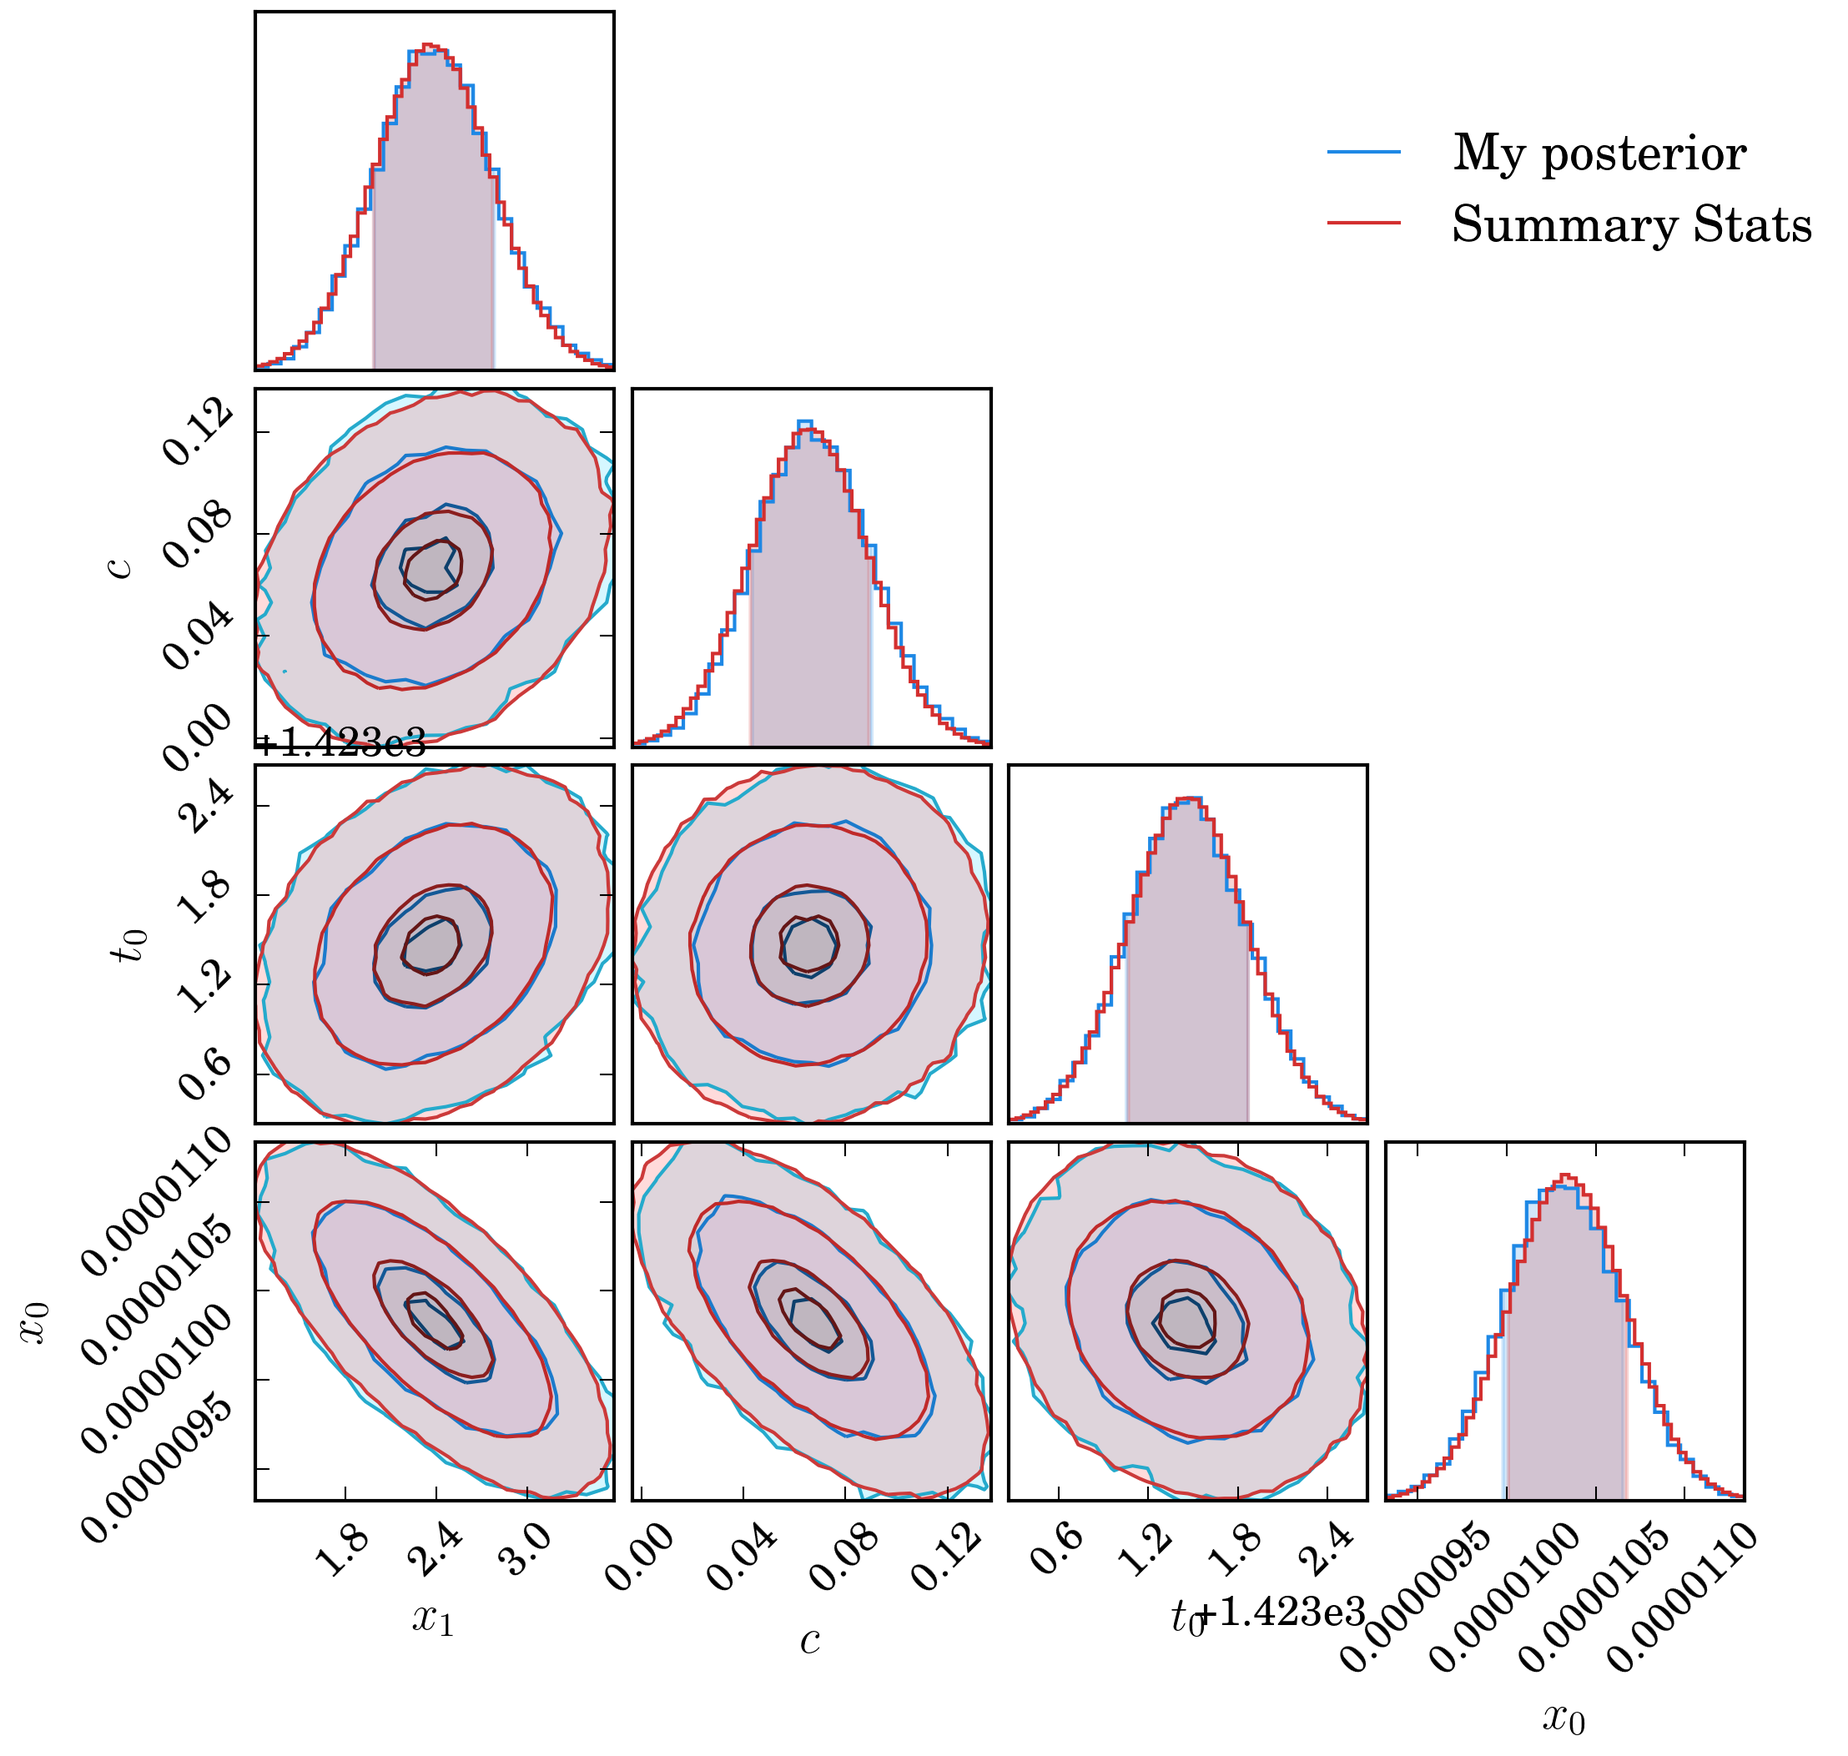
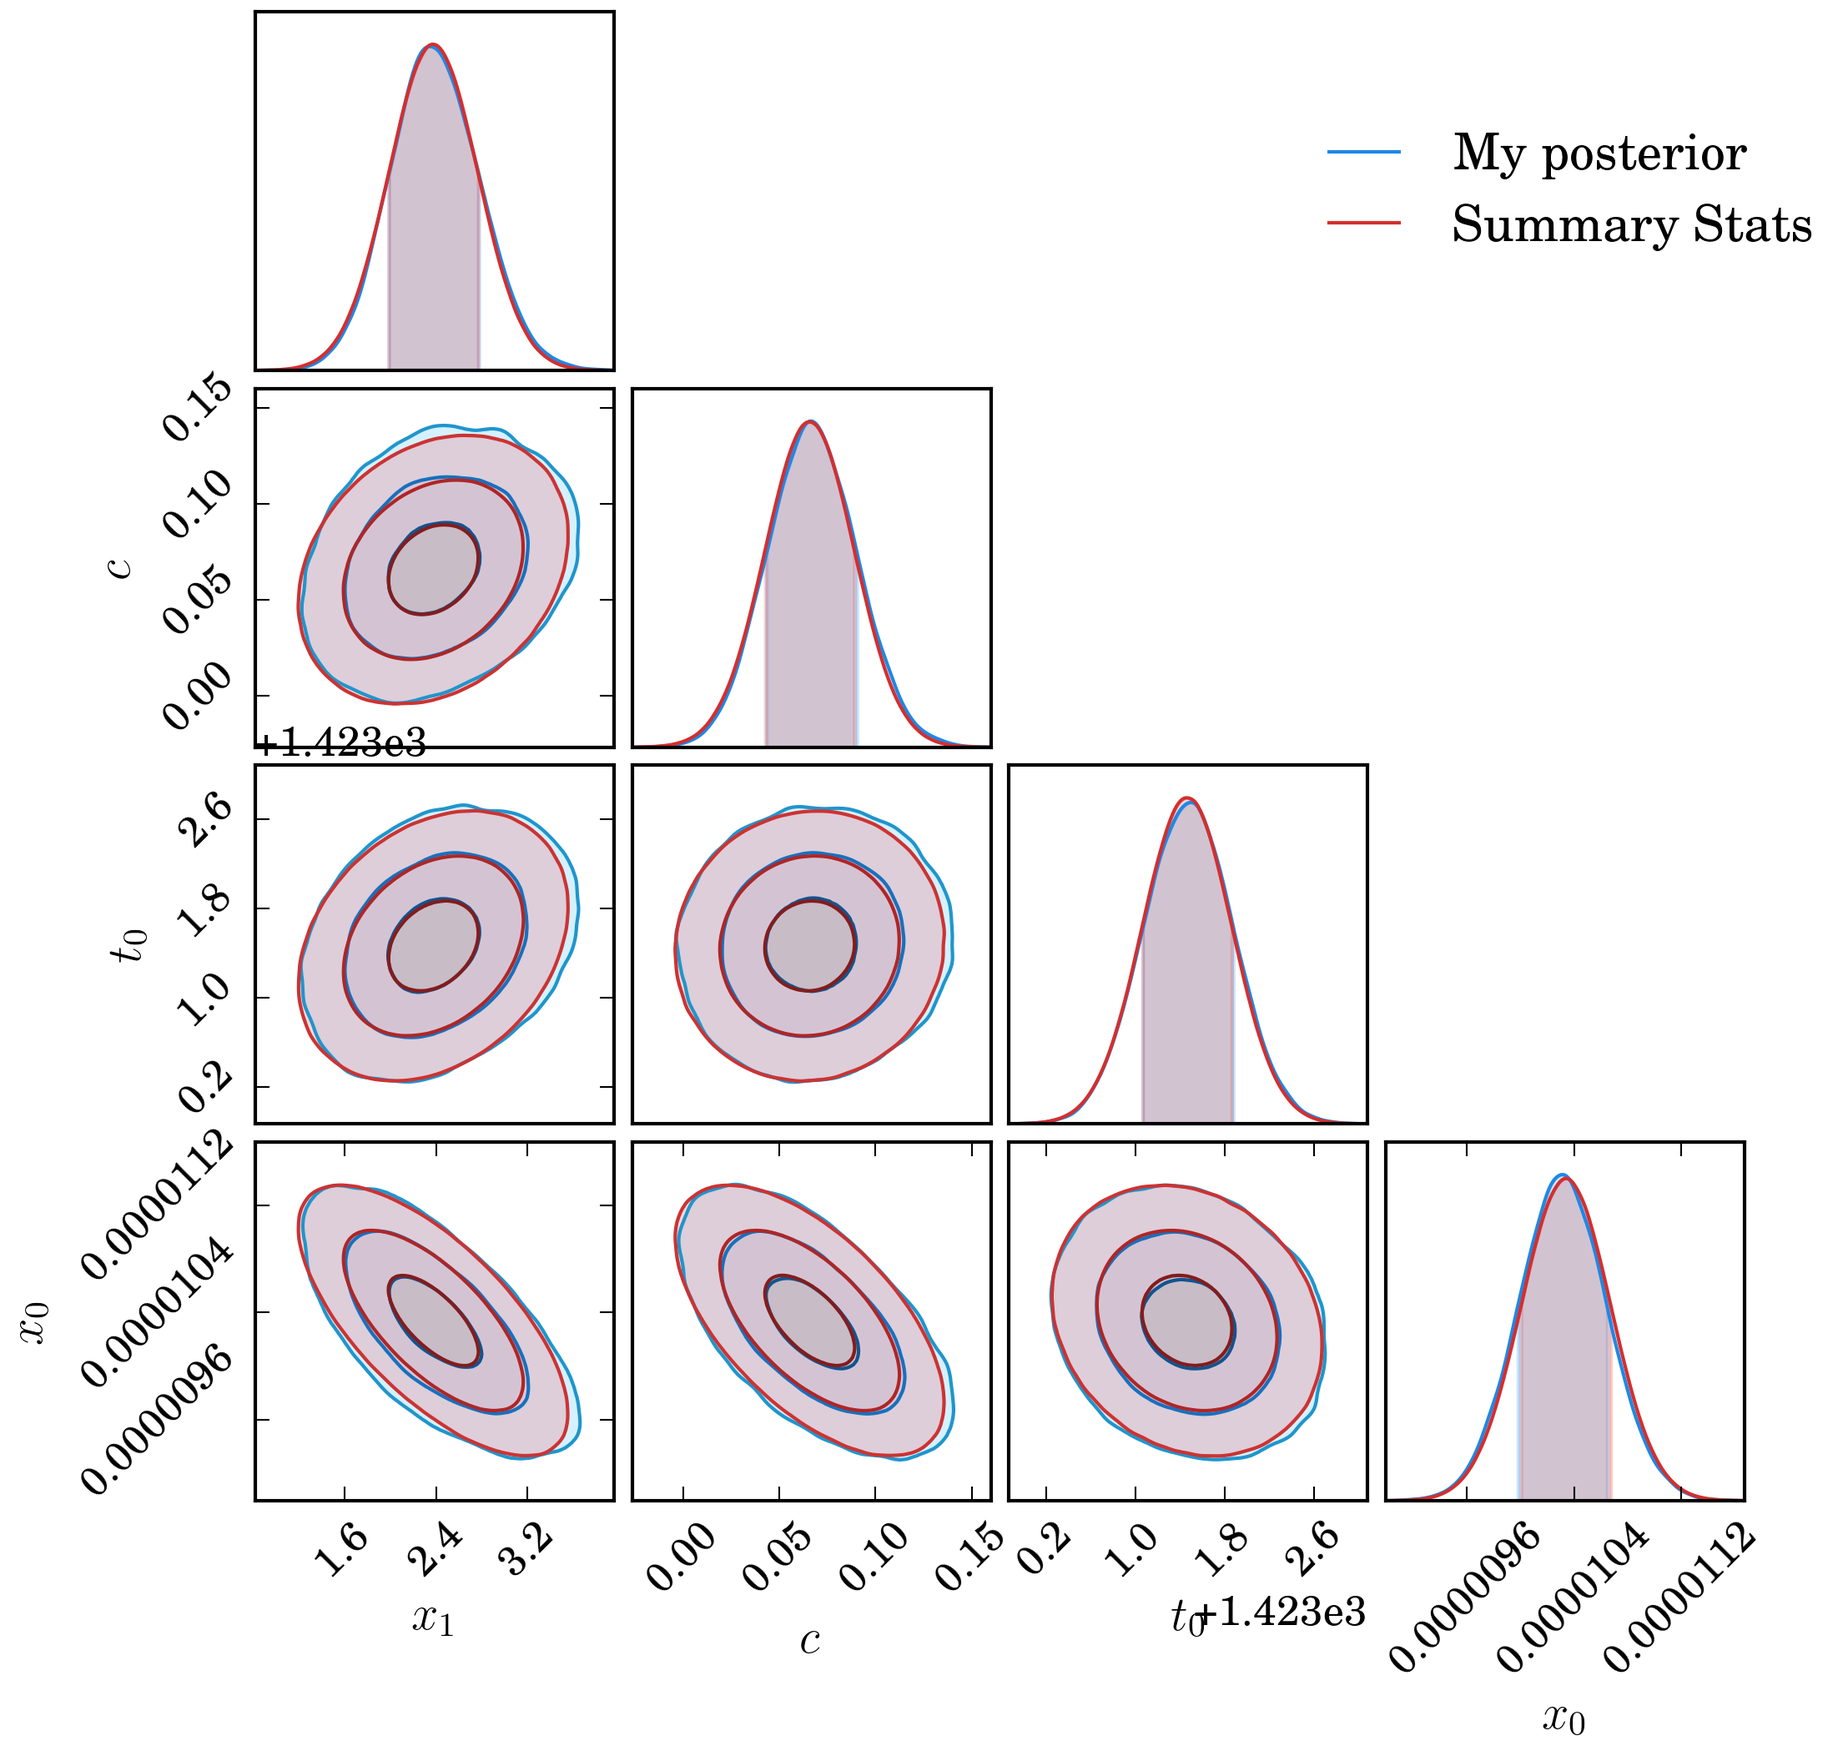
Correct phillips

Changed region(s): [[0.0312, 0.0309, 0.7476, 0.9264], [0.7165, 0.6485, 0.9657, 0.9572]]

diff --git a/dessn/investigations/gaussianity/des_sky.py b/dessn/investigations/gaussianity/des_sky.py
@@ -16,19 +16,20 @@ from astropy.cosmology import WMAP9
 
 
 def realise_light_curve(temp_dir, zeros, seed, scatter=0.3, cosmology=None, mabs=-19.3):
-    simulation = cosmology is None
+    simulation = cosmology is not None
     if cosmology is None:
         cosmology = WMAP9
     np.random.seed(seed)
     t0 = 1000
     num_obs = 20
     if simulation:
-        if np.random.random() < 0.05:
-            z = np.random.uniform(0.05, 0.2)
+        if np.random.random() < 0.1:
+            z = np.random.uniform(0.03, 0.2)
         else:
             zs = list(sncosmo.zdist(0.05, 1.2, area=30, time=10000))
             z_ind = np.random.randint(0, len(zs))
             z = zs[z_ind]
+        print("Simulation: z=%0.6f" % z)
     else:
         z = np.random.uniform(0.1, 0.9)
     deltat = -35
@@ -65,15 +66,18 @@ def realise_light_curve(temp_dir, zeros, seed, scatter=0.3, cosmology=None, mabs
 
     model = sncosmo.Model(source='salt2-extended')
     model.set(z=z)
-    mabs = np.random.normal(mabs, scatter)
-    model.set_source_peakabsmag(mabs, 'bessellb', 'ab', cosmo=cosmology)
-    x0 = model.get('x0')
+
     if not simulation:
         x1 = 0
         c = 0
     else:
-        x1 = np.random.normal(0, 1)
+        x1 = np.random.normal(0, 0.5)
         c = np.random.normal(0, 0.1)
+    alpha = 0.14
+    beta = 3.15
+    mabs = np.random.normal(mabs, scatter) - alpha * x1 + beta * c
+    model.set_source_peakabsmag(mabs, 'bessellb', 'ab', cosmo=cosmology)
+    x0 = model.get('x0')
     p = {'z': z, 't0': t0, 'x0': x0, 'x1': x1, 'c': c}
 
     lc = sncosmo.realize_lcs(obs, model, [p])[0]
@@ -92,8 +96,8 @@ def get_gaussian_fit(z, t0, x0, x1, c, lc, seed, temp_dir, interped, type="iminu
         res, fitted_model = sncosmo.fit_lc(lc, model, ['t0', 'x0', 'x1', 'c'],
                                            guess_amplitude=False, guess_t0=False)
         chain = np.random.multivariate_normal(res.parameters[1:], res.covariance, size=int(1e5))
-        fig = sncosmo.plot_lc(lc, model=[fitted_model, correct_model], errors=res.errors)
-        fig.savefig(temp_dir + os.sep + "lc_%d.png" % seed, bbox_inches="tight", dpi=300)
+        # fig = sncosmo.plot_lc(lc, model=[fitted_model, correct_model], errors=res.errors)
+        # fig.savefig(temp_dir + os.sep + "lc_%d.png" % seed, bbox_inches="tight", dpi=300)
     elif type == "mcmc":
         res, fitted_model = sncosmo.mcmc_lc(lc, model, ['t0', 'x0', 'x1', 'c'], nburn=300, nwalkers=10,
                                             nsamples=1300, guess_amplitude=False, guess_t0=False)
@@ -186,7 +190,11 @@ def get_result(temp_dir, zps, seed, scatter, special=False, full=True):
             return res
     else:
         interp = generate_and_return()
-        z, t0, x0, x1, c, ston, lc = realise_light_curve(temp_dir, zps, seed, scatter=scatter)
+        if full:
+            cosmology = None
+        else:
+            cosmology = WMAP9
+        z, t0, x0, x1, c, ston, lc = realise_light_curve(temp_dir, zps, seed, scatter=scatter, cosmology=cosmology)
 
         if ston < 4:
             print("Failed ", z)
@@ -196,13 +204,13 @@ def get_result(temp_dir, zps, seed, scatter, special=False, full=True):
         try:
             chainf, parametersf, means, cov = get_gaussian_fit(z, t0, x0, x1, c, lc, seed,
                                                                temp_dir, interp, type="iminuit")
-
             mcmc_file = temp_dir + "/mcmc%d.npy" % seed
             if os.path.exists(mcmc_file):
                 chainf2 = np.load(mcmc_file)
             else:
                 chainf2, _, _, _ = get_gaussian_fit(z, t0, x0, x1, c, lc, seed, temp_dir, interp, type="mcmc")
                 np.save(mcmc_file, chainf2)
+
             if full:
                 nestle_file = temp_dir + "/nestle%d.npy" % seed
                 if os.path.exists(nestle_file):
@@ -322,50 +330,51 @@ def run_analysis(foldername, zeropoints, scatter, savefigure=False, n=400):
         # os.remove(temp_dir + os.sep + "final%d.npy" % index)
         print("Getting special result for index %d" % index)
         get_result(temp_dir, zeropoints, index)
+    else:
+        print("Creating plots")
+        import matplotlib.pyplot as plt
+        fig, axes = plt.subplots(ncols=2, nrows=2, figsize=(8, 7))
 
-    print("Creating plots")
-    import matplotlib.pyplot as plt
-    fig, axes = plt.subplots(ncols=2, nrows=2, figsize=(8, 7))
+        axes = axes.T.flatten()
+        datas = [[diff_mu_ps, diff_mu_fs, diff_mu_ms, diff_mu_ns],
+                 [diff_mu_ps / stdd, diff_mu_fs / stdd, diff_mu_ms / stdd, diff_mu_ns / stdd],
+                 [diff_std_ps2, diff_std_fs2, diff_std_ms2, diff_std_ns2]]
+        labels = [["Posterior", "minuit", "emcee", "nestle"],
+                  ["Posterior", "minuit", "emcee", "nestle"], ["P/PSS", "P/FSS", "P/MSS", "P/NSS"]]
 
-    axes = axes.T.flatten()
-    datas = [[diff_mu_ps, diff_mu_fs, diff_mu_ms, diff_mu_ns],
-             [diff_mu_ps / stdd, diff_mu_fs / stdd, diff_mu_ms / stdd, diff_mu_ns / stdd],
-             [diff_std_ps2, diff_std_fs2, diff_std_ms2, diff_std_ns2]]
-    labels = [["Posterior", "minuit", "emcee", "nestle"],
-              ["Posterior", "minuit", "emcee", "nestle"], ["P/PSS", "P/FSS", "P/MSS", "P/NSS"]]
+        axes[0].set_ylabel(r"$\Delta (\mu + M)$", fontsize=14)
+        axes[1].set_ylabel(r"$\Delta (\mu + M) / \sigma_{\mu + M}$", fontsize=14)
+        axes[2].set_ylabel(r"Percent Ratio $\Delta \sigma_{\mu + M}$", fontsize=14)
+        zs = np.linspace(z.min(), z.max(), 11)
 
-    axes[0].set_ylabel(r"$\Delta (\mu + M)$", fontsize=14)
-    axes[1].set_ylabel(r"$\Delta (\mu + M) / \sigma_{\mu + M}$", fontsize=14)
-    axes[2].set_ylabel(r"Percent Ratio $\Delta \sigma_{\mu + M}$", fontsize=14)
-    zs = np.linspace(z.min(), z.max(), 11)
+        n, _ = np.histogram(z, bins=zs)
+        for ax, data, label in zip(axes, datas, labels):
+            ax.set_xlabel("$z$", fontsize=14)
+            for i, (d, l) in enumerate(zip(data, label)):
+                mean, edges = np.histogram(z, bins=zs, weights=d)
+                std, _ = np.histogram(z, bins=zs, weights=d * d)
+                mean /= n
+                std = np.sqrt(std / n - mean * mean)
+                ec = 0.5 * (edges[:-1] + edges[1:])
+                ax.errorbar(ec + (0.01 * (i - 1)), mean, fmt='o', yerr=std, label=l)
 
-    n, _ = np.histogram(z, bins=zs)
-    for ax, data, label in zip(axes, datas, labels):
-        ax.set_xlabel("$z$", fontsize=14)
-        for i, (d, l) in enumerate(zip(data, label)):
-            mean, edges = np.histogram(z, bins=zs, weights=d)
-            std, _ = np.histogram(z, bins=zs, weights=d * d)
-            mean /= n
-            std = np.sqrt(std / n - mean * mean)
-            ec = 0.5 * (edges[:-1] + edges[1:])
-            ax.errorbar(ec + (0.01 * (i - 1)), mean, fmt='o', yerr=std, label=l)
+        axes[0].legend(loc=2)
+        print("Creating skewness plot")
 
-    axes[0].legend(loc=2)
-    print("Creating skewness plot")
-
-    skewhist, edges = np.histogram(z, bins=zs, weights=skews)
-    std, _ = np.histogram(z, bins=zs, weights=skews * skews)
-    skewhist /= n
-    std = np.sqrt(std / n - skewhist * skewhist)
-    ec = 0.5 * (edges[:-1] + edges[1:])
-    axes[-1].errorbar(ec, skewhist, fmt='o', yerr=std, label="Skewness")
-    axes[-1].legend(loc=3)
-    axes[-1].set_xlabel("$z$")
-    plt.tight_layout()
-    fig.savefig(os.path.dirname(__file__) + "/output/bias_%s.png" % foldername, dpi=300, bbox_inches="tight",
-                transparent=True)
-    # plt.show()
+        skewhist, edges = np.histogram(z, bins=zs, weights=skews)
+        std, _ = np.histogram(z, bins=zs, weights=skews * skews)
+        skewhist /= n
+        std = np.sqrt(std / n - skewhist * skewhist)
+        ec = 0.5 * (edges[:-1] + edges[1:])
+        axes[-1].errorbar(ec, skewhist, fmt='o', yerr=std, label="Skewness")
+        axes[-1].legend(loc=3)
+        axes[-1].set_xlabel("$z$")
+        plt.tight_layout()
+        fig.savefig(os.path.dirname(__file__) + "/output/bias_%s.png" % foldername, dpi=300, bbox_inches="tight",
+                    transparent=True)
+        # plt.show()
 
 
 if __name__ == "__main__":
+    run_analysis("dessky", [32.46, 32.28, 32.55, 33.12], 0.3, savefigure=False)
     run_analysis("dessky", [32.46, 32.28, 32.55, 33.12], 0.3, savefigure=True)

diff --git a/dessn/investigations/gaussianity/simple_cosmology_test.py b/dessn/investigations/gaussianity/simple_cosmology_test.py
@@ -26,17 +26,18 @@ def get_zp_and_name(shallow):
         return [34.24, 34.85, 34.94, 35.42], "deep"
 
 
-def get_supernova_data(n=800, ston_thresh=5, shallow=True):
+def get_supernova_data(n=600, ston_thresh=5, shallow=True):
     zp, name = get_zp_and_name(shallow)
     temp_dir = os.path.dirname(__file__) + "/output/supernova_data_%s" % name
     if not os.path.exists(temp_dir):
         os.makedirs(temp_dir)
     ress = Parallel(n_jobs=4, max_nbytes="20M", batch_size=5)(delayed(get_result)(
-        temp_dir, zp, i, 0.05, False, False) for i in range(n))
-    print(ress)
+        temp_dir, zp, i, 0.1, False, False) for i in range(n))
     res = np.array([r for r in ress if r is not None])
     ston = res[:, 6]
     res = res[ston > ston_thresh, :]
+    z = res[:, 1]
+    # res = res[z < 0.7, :]
     # [seed, z, t0, x0, x1, c, ston] + mus + stds)
     #            zs, mu_mcmc, mu_minuit, std_mcmc, std_minuit
     return res[:, 1], res[:, 7], res[:, 8], res[:, 9], res[:, 10]
@@ -46,7 +47,7 @@ def get_bias(omega_m, w0, mabs, n=800, ston_thresh=5, shallow=True):
     zp, name = get_zp_and_name(shallow)
     cosmology = FlatwCDM(70, omega_m, w0=w0)
     ress = Parallel(n_jobs=4, max_nbytes="20M", batch_size=100)(delayed(realise_light_curve)(
-        None, zp, i, 0.05, cosmology, mabs) for i in range(n))
+        None, zp, i, 0.1, cosmology, mabs) for i in range(n))
     res = np.array([r for r in ress if r is not None])
     ston = res[:, 5]
     mask = (ston > ston_thresh).sum()
@@ -54,8 +55,8 @@ def get_bias(omega_m, w0, mabs, n=800, ston_thresh=5, shallow=True):
 
 
 def get_bias_matrix(filename, shallow=True):
-    omega_ms = np.linspace(0.2, 0.4, 7)
-    ws = np.linspace(-1.5, -0.5, 7)
+    omega_ms = np.linspace(0.1, 0.6, 7)
+    ws = np.linspace(-2, -0.5, 7)
     mabss = np.linspace(-20, -19, 7)
 
     if os.path.exists(filename):
@@ -85,13 +86,13 @@ def plot_cosmology(zs, mu_mcmc, mu_minuit, std_mcmc, std_minuit):
     # ax.axhline(0, color='k', ls="--")
     zsort = sorted(zs)
     distmod = WMAP9.distmod(zsort).value - 19.3
-    distmod2 = FlatwCDM(70, 0.2, -1.0).distmod(zsort).value - 19.3
+    distmod2 = FlatwCDM(70, 0.1, -0.8).distmod(zsort).value - 19.3
+    distmod3 = FlatwCDM(70, 0.25, -2).distmod(zsort).value - 19.5
+    ax.errorbar(zs, mu_minuit, yerr=np.sqrt(std_minuit*std_minuit + 0.1*0.1), ms=4, fmt='o', label=r"minuit", color="r", alpha=0.1)
+    # ax.errorbar(zs, mu_mcmc, yerr=np.sqrt(std_mcmc*std_mcmc + 0.05*0.05), fmt='o', ms=4, label=r"mcmc", color="b", alpha=0.1)
     ax.plot(zsort, distmod, 'k')
-    # ax.plot(zsort, distmod2, 'g--')
-    ax.errorbar(zs, mu_minuit, yerr=np.sqrt(std_minuit + 0.05*0.05), ms=4, fmt='o',
-                label=r"minuit", color="r", alpha=0.5)
-    ax.errorbar(zs, mu_mcmc, yerr=np.sqrt(std_mcmc + 0.05*0.05), fmt='o', ms=4, label=r"mcmc",
-                color="b", alpha=0.5)
+    ax.plot(zsort, distmod2, 'g--')
+    ax.plot(zsort, distmod3, 'r:')
     ax.set_xlabel("$z$")
     ax.set_ylabel(r"$\mu(\mathcal{C}) - \mu_{{\rm obs}}$")
     ax.legend(loc=2)
@@ -111,10 +112,10 @@ if __name__ == "__main__":
     fitter_mcmc = SimpleCosmologyFitter("mcmc", zs, mu_mcmc, std_mcmc, interp)
     fitter_minuit = SimpleCosmologyFitter("minuit", zs, mu_minuit, std_minuit, interp)
 
-    sampler = EnsembleSampler(temp_dir=temp_dir2, save_interval=60, num_steps=4000, num_burn=2000)
+    sampler = EnsembleSampler(temp_dir=temp_dir2, save_interval=60, num_steps=5000, num_burn=1000)
     c = fitter_mcmc.fit(sampler=sampler)
-    # c = fitter_minuit.fit(sampler=sampler, chain_consumer=c)
-    # c.names = ["emcee", "minuit"]
-    c.plot_walks(filename="output/walks.png")
+    c = fitter_minuit.fit(sampler=sampler, chain_consumer=c)
+    c.names = ["emcee", "minuit"]
+    #c.plot_walks(filename="output/walks.png")
     c.plot(filename="output/comparison_shallow.png", parameters=2, figsize=(5.5, 5.5))
     print(c.get_latex_table())

diff --git a/dessn/investigations/gaussianity/simple.py b/dessn/investigations/gaussianity/simple.py
@@ -3,7 +3,7 @@ from dessn.investigations.gaussianity.apparent_mags import generate_and_return
 import sncosmo
 import numpy as np
 from astropy.table import Table
-from dessn.chain.chain import ChainConsumer
+from chainconsumer import ChainConsumer
 from dessn.framework.samplers.ensemble import EnsembleSampler
 import os
 
@@ -46,9 +46,9 @@ if __name__ == "__main__":
     mcmc_chain = temp_dir + os.sep + "mcmc_simple.npy"
     c = ChainConsumer()
     my_model = PerfectRedshift(lcs, [z], t0, name="My posterior")
-    sampler = EnsembleSampler(temp_dir=temp_dir, num_steps=10000)
+    sampler = EnsembleSampler(temp_dir=temp_dir, num_steps=20000)
     my_model.fit(sampler, chain_consumer=c)
-    c.add_chain(np.random.multivariate_normal(res.parameters[1:], res.covariance, size=int(1e6)),
+    c.add_chain(np.random.multivariate_normal(res.parameters[1:], res.covariance, size=int(1e7)),
                 name="Summary Stats", parameters=["$t_0$", "$x_0$", "$x_1$", "$c$"])
 
     if False:
@@ -61,7 +61,7 @@ if __name__ == "__main__":
             mcchain = np.load(mcmc_chain)
         c.add_chain(mcchain, name="sncosmo mcmc", parameters=["$t_0$", "$x_0$", "$x_1$", "$c$"])
 
-    c.configure_contour(contourf=True, contourf_alpha=0.2, sigmas=[0.0, 0.5, 1.0, 2.0, 3.0])
+    c.configure_contour(shade=True, shade_alpha=0.2, sigmas=[0.0, 1.0, 2.0, 3.0])
     c.configure_bar(shade=True)
     c.plot(filename=surface, figsize=(7, 7))
     fig = sncosmo.plot_lc(lcs[0], model=fitted_model, errors=res.errors)

diff --git a/dessn/investigations/gaussianity/simple_cosmology_fitter.py b/dessn/investigations/gaussianity/simple_cosmology_fitter.py
@@ -28,7 +28,7 @@ class M(ParameterUnderlying):
         return -19.3
 
     def get_suggestion_sigma(self, data):
-        return 0.5
+        return 0.2
 
     def get_log_prior(self, data):
         om = data["M"]
@@ -93,7 +93,7 @@ class Likelihood(Edge):
     def get_log_likelihood(self, data):
         cosmology = FlatwCDM(H0=self.H0, Om0=data["omega_m"], w0=data["w"])
         distmod = cosmology.distmod(data["z"]).value
-        error = np.sqrt(data["mue"]**2 + 0.05*0.05)
+        error = np.sqrt(data["mue"]**2 + 0.1*0.1)
         diff = (distmod - data["mu"] + data["M"]) / error
         # diff = (distmod - data["mu"]) / data["mue"]
         return -0.5 * (diff * diff)
